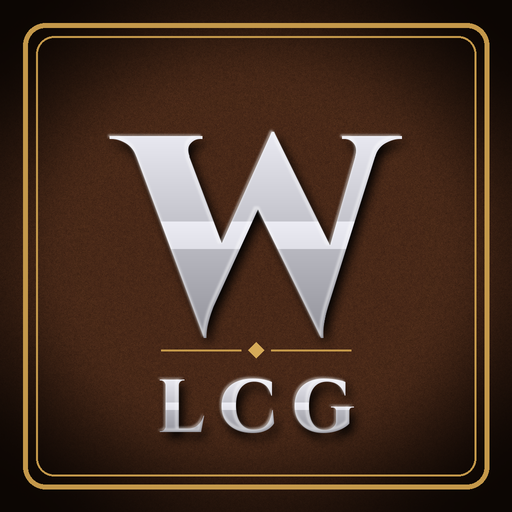
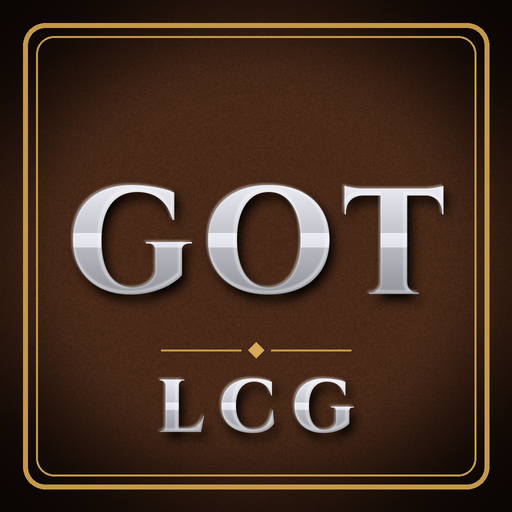
Ícone: GOT LCG
Claude-Session: https://claude.ai/code/session_019Gpfv4tQ2C8XEfx8wEeuFj

Changed region(s): [[0.125, 0.25, 0.875, 0.6562]]

diff --git a/index.html b/index.html
@@ -7,9 +7,9 @@
 <meta name="mobile-web-app-capable" content="yes">
 <meta name="apple-mobile-web-app-capable" content="yes">
 <title>Westeros LCG — Simulador AGoT 2.0</title>
-<link rel="icon" type="image/png" sizes="32x32" href="icons/icon-32.png">
-<link rel="icon" type="image/png" sizes="192x192" href="icons/icon-192.png">
-<link rel="apple-touch-icon" sizes="180x180" href="icons/icon-180.png">
+<link rel="icon" type="image/png" sizes="32x32" href="icons/icon-32.png?v=2">
+<link rel="icon" type="image/png" sizes="192x192" href="icons/icon-192.png?v=2">
+<link rel="apple-touch-icon" sizes="180x180" href="icons/icon-180.png?v=2">
 <link rel="manifest" href="manifest.json">
 <meta name="apple-mobile-web-app-title" content="Westeros LCG">
 <meta name="apple-mobile-web-app-status-bar-style" content="black">
@@ -2526,7 +2526,7 @@ const store = {
 
 // ---------- imagens das cartas (ThronesDB, com reserva no CDN da FFG) ----------
 const PACK_CGDB = { '01': 1 };
-const APP_VERSION = 'v1.1';
+const APP_VERSION = 'v1.2';
 const IMG = {
   on: store.get('agot_img', true), fails: 0, oks: 0, broken: new Set(), good: new Map(),
   urls(code) {

diff --git a/src/shell.html b/src/shell.html
@@ -7,9 +7,9 @@
 <meta name="mobile-web-app-capable" content="yes">
 <meta name="apple-mobile-web-app-capable" content="yes">
 <title>Westeros LCG — Simulador AGoT 2.0</title>
-<link rel="icon" type="image/png" sizes="32x32" href="icons/icon-32.png">
-<link rel="icon" type="image/png" sizes="192x192" href="icons/icon-192.png">
-<link rel="apple-touch-icon" sizes="180x180" href="icons/icon-180.png">
+<link rel="icon" type="image/png" sizes="32x32" href="icons/icon-32.png?v=2">
+<link rel="icon" type="image/png" sizes="192x192" href="icons/icon-192.png?v=2">
+<link rel="apple-touch-icon" sizes="180x180" href="icons/icon-180.png?v=2">
 <link rel="manifest" href="manifest.json">
 <meta name="apple-mobile-web-app-title" content="Westeros LCG">
 <meta name="apple-mobile-web-app-status-bar-style" content="black">

diff --git a/src/ui.js b/src/ui.js
@@ -11,7 +11,7 @@ const store = {
 
 // ---------- imagens das cartas (ThronesDB, com reserva no CDN da FFG) ----------
 const PACK_CGDB = { '01': 1 };
-const APP_VERSION = 'v1.1';
+const APP_VERSION = 'v1.2';
 const IMG = {
   on: store.get('agot_img', true), fails: 0, oks: 0, broken: new Set(), good: new Map(),
   urls(code) {

diff --git a/tools/make_icon.py b/tools/make_icon.py
@@ -48,7 +48,7 @@ def metal_text(img, text, size, cy, tracking=0):
     edge = ImageChops.subtract(mask, mask.filter(ImageFilter.MinFilter(9))).filter(ImageFilter.GaussianBlur(2))
     hl = ImageChops.offset(edge, -3, -3)
     img.paste(Image.new('RGB', (S, S), (255, 255, 255)), (0, 0), hl.point(lambda v: v // 2))
-metal_text(bg, 'W', 560, 470)
+metal_text(bg, 'GOT', 300, 480, tracking=14)
 metal_text(bg, 'LCG', 150, 812, tracking=28)
 # pequeno losango dourado entre as linhas
 d = ImageDraw.Draw(bg); cx, cy = S // 2, 700
